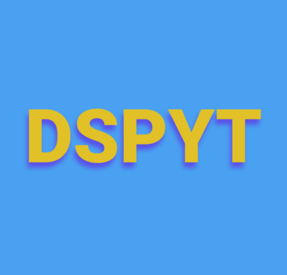
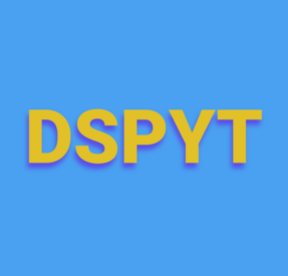
fixed image

diff --git a/topics/dspyt/index.md b/topics/dspyt/index.md
@@ -2,10 +2,10 @@
 topic: dspyt
 github_url: https://github.com/BadmWe/dspyt-webpage
 display_name: Dspyt-into CodeVerse
-logo: DspytYellowonBlue.png
+logo: dspyt.png
 short_description: Dspyt-CodeVerse - Fostering Innovation and Education in Web3 Technologies.
 url: https://dspyt.com/
 ---
-# Dspyt- into CodeVerse
+# Dspyt-into CodeVerse
 
-Dspyt-CodeVerse is a forward-thinking organization committed to promoting open-source initiatives and fostering innovation in the rapidly evolving Web3 ecosystem. Our primary focus is on empowering developers and enthusiasts in the Blockchain, Python, JavaScript, and Next.js communities by providing them with resources, mentorship, and opportunities to collaborate on exciting projects. By bringing together talented individuals from diverse backgrounds, we aim to strengthen the Web3 community and create a lasting impact on decentralized technology adoption worldwide.
+Dspyt-CodeVerse is a forward-thinking organization committed to promoting initiatives and fostering innovation in the rapidly evolving Web3 ecosystem. Our primary focus is on empowering developers and enthusiasts in the Blockchain, Python, JavaScript, and Next.js communities by providing them with resources, mentorship, and opportunities to collaborate on exciting projects. By bringing together talented individuals from diverse backgrounds, we aim to strengthen the Web3 community and create a lasting impact on decentralized technology adoption worldwide.
